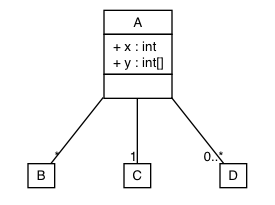
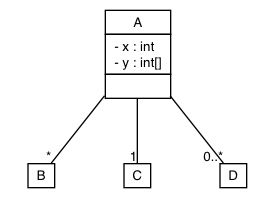
Fixed private elements

Changed region(s): [[0.3491, 0.0293, 0.64, 0.4976], [0.7273, 0.7317, 0.8145, 0.7902], [0.1745, 0.7317, 0.2327, 0.761]]

diff --git a/Personal-Project/src/main/java/testcase1.java b/Personal-Project/src/main/java/testcase1.java
@@ -19,8 +19,8 @@ class UMLOptions {}
  *
  */
 class A{
-    public int x;
-    public int[] y;
+    private int x;
+    private int[] y;
 }
 
 class B {}
